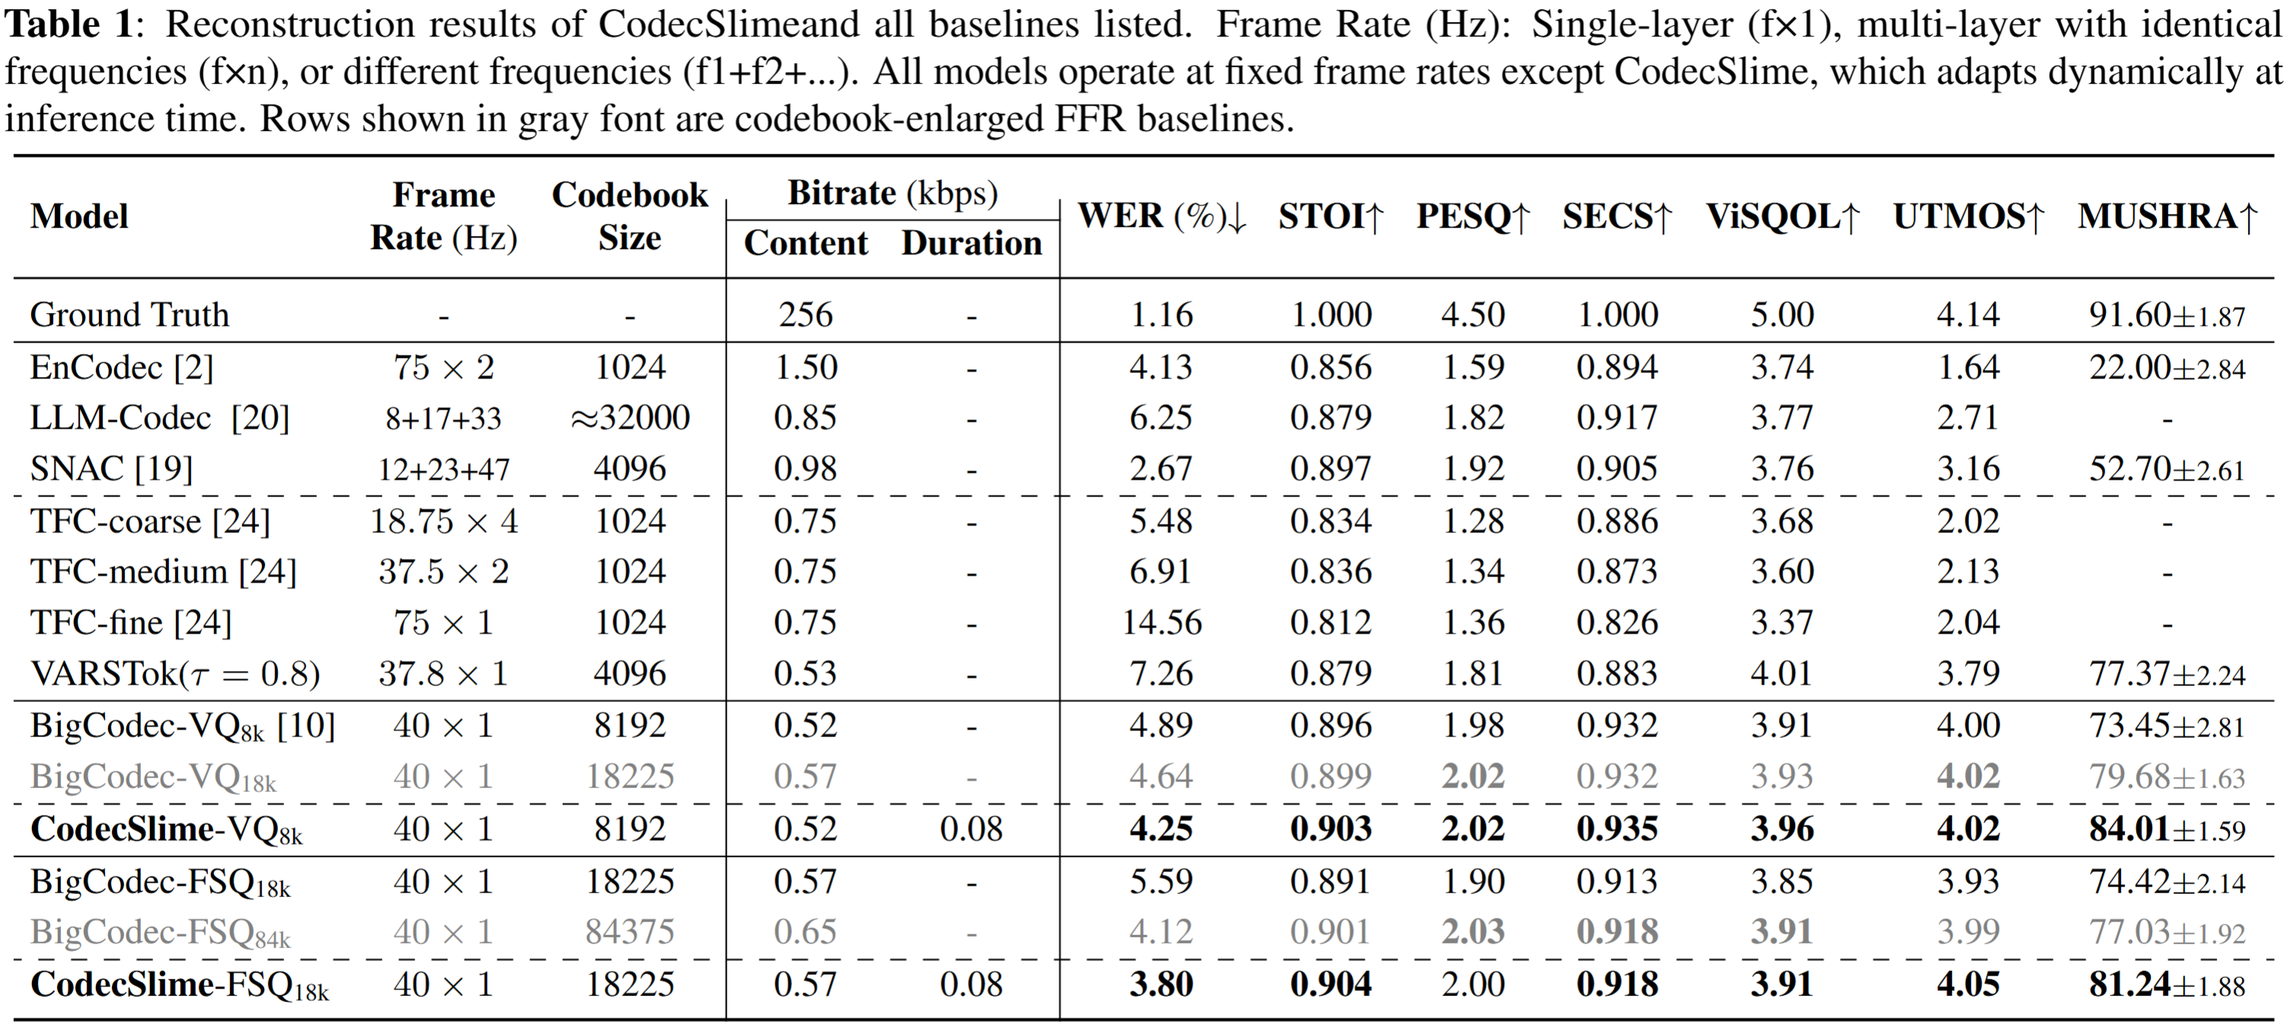
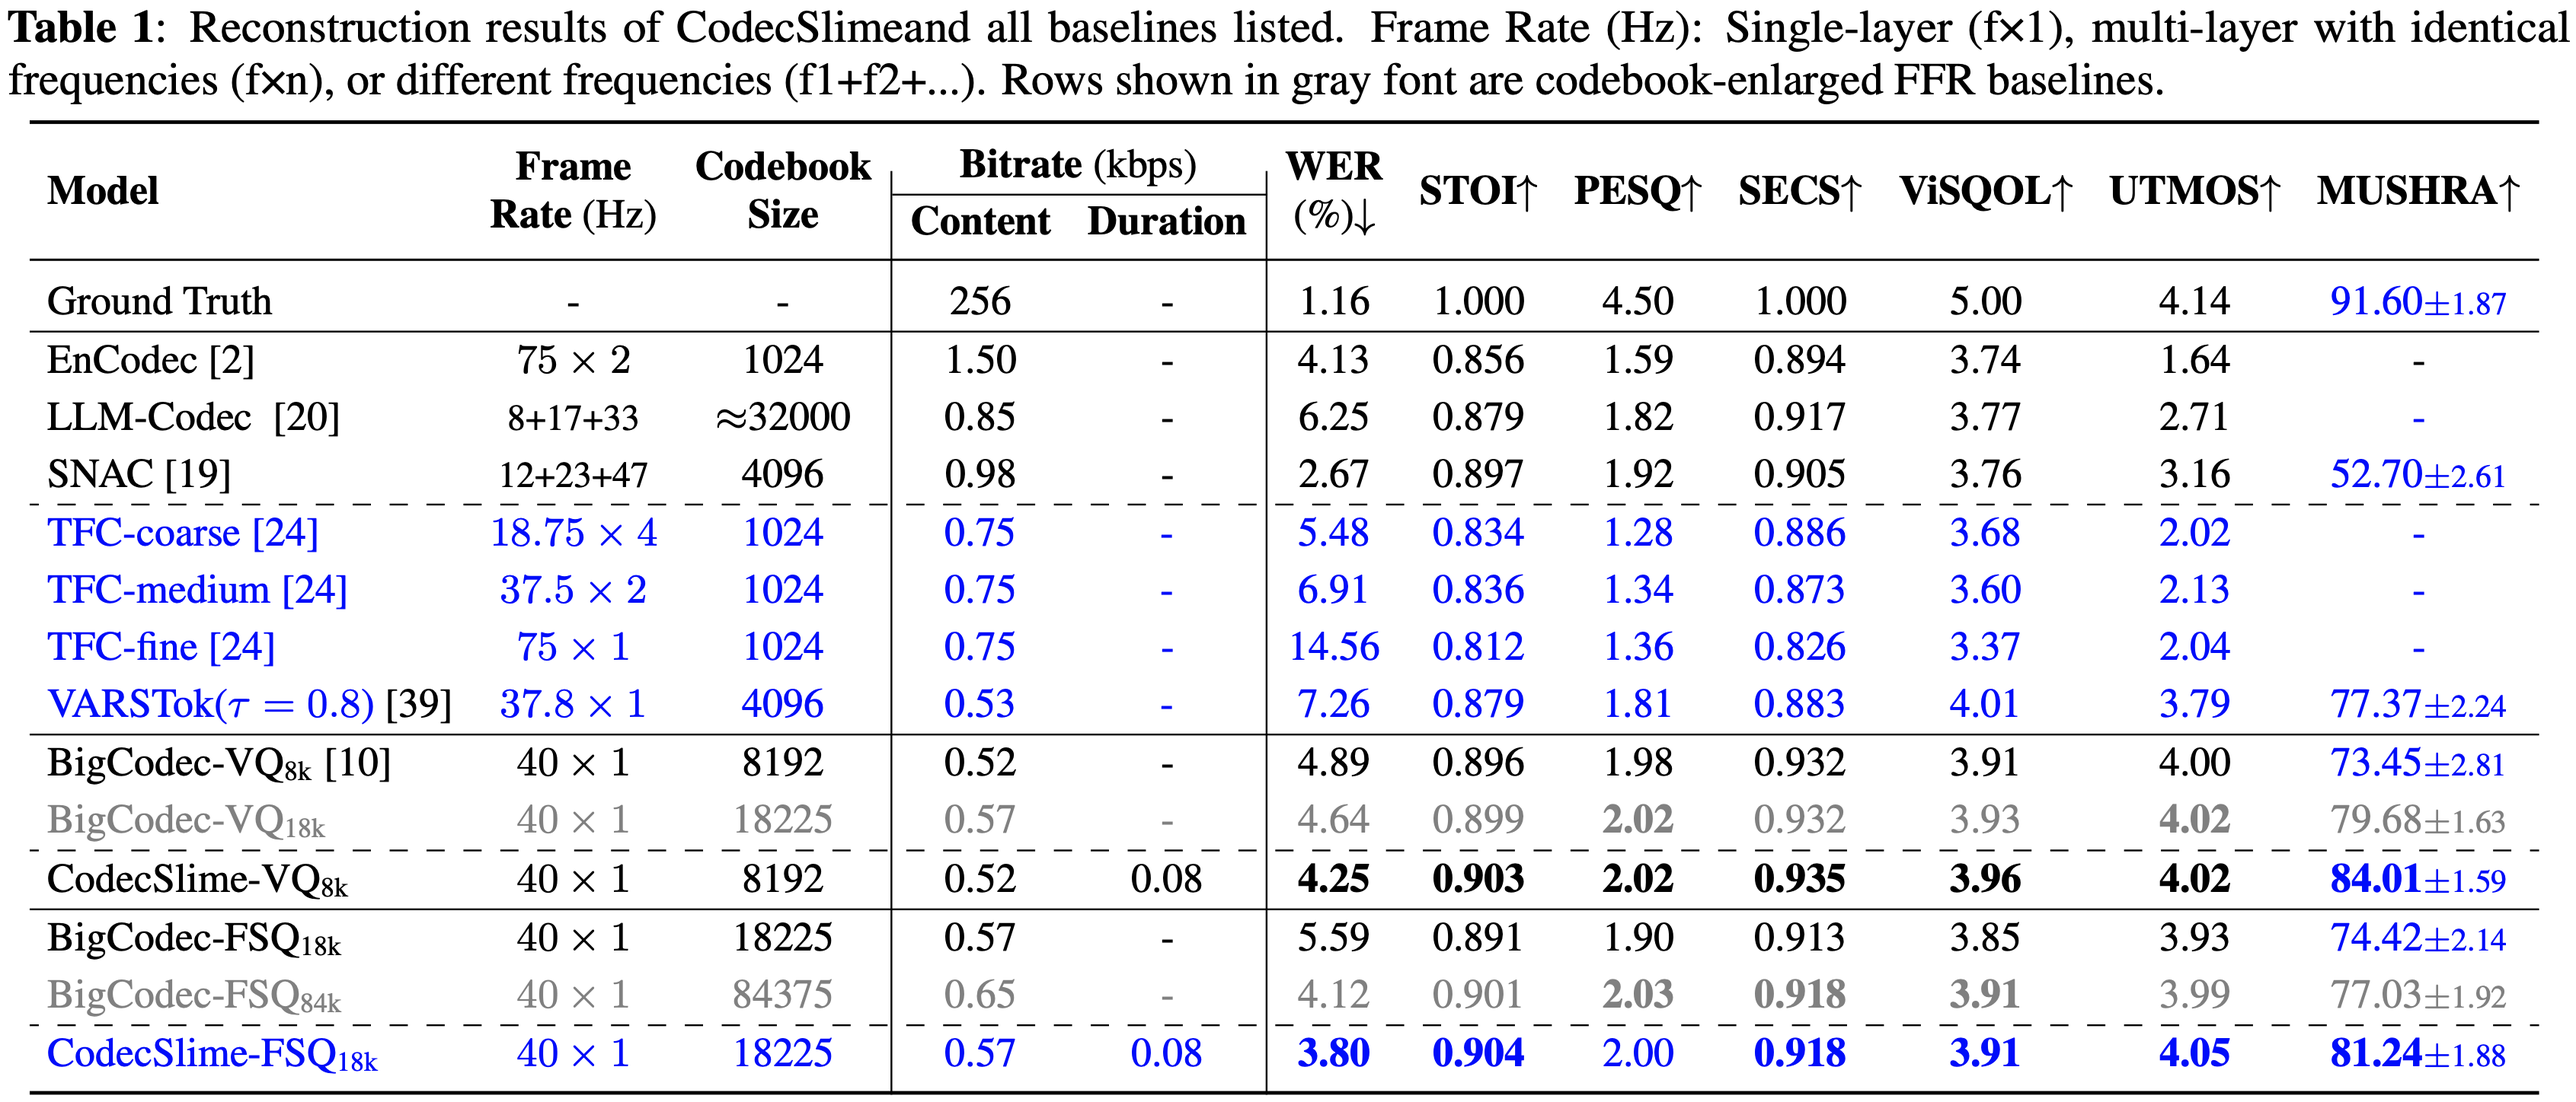
upd main table

Changed region(s): [[0.0, 0.0, 1.0, 0.9956], [0.4336, 0.4667, 0.4645, 0.4978], [0.2478, 0.28, 0.2787, 0.3111]]

diff --git a/rebuttal.html b/rebuttal.html
@@ -191,7 +191,7 @@
 			<center>
 				<figure>
 					<img src="figures/main_table.png" style="max-width: 100%;">
-					<figcaption><strong>Table 1 (Updated):</strong> Reconstruction results including TFC[24], VARSTok[39], and new MUSHRA scores.</figcaption>
+					<figcaption><strong>Table 1 (Updated):</strong> Reconstruction results including TFC[24], VARSTok[39], and new MUSHRA scores, <span style="color: #0330fc; font-weight: 700;">shown in blue</span>.</figcaption>
 				</figure>
 			</center>
 			<ul>
@@ -199,6 +199,10 @@
 				<li><strong>Comparison with VARSTok[39]:</strong> Both CodecSlime-VQ8k (84.01±1.59) and CodecSlime-FSQ18k (81.24±1.88) achieve higher MUSHRA scores than VARSTok (77.37±2.24).</li>
 				<li><strong>FSQ Comparison:</strong> The retrained CodecSlime-FSQ18k (81.24±1.88) shows clear gains over FFR (77.03±1.92).</li>
 			</ul>
+			
+			<p style="font-size: 12px; color: #666; margin-top: 25px; line-height: 1.5;">
+				<strong>New MUSHRA Test Details:</strong> Subjective MUSHRA test (ITU-R BS.1534) with 21 participants, where each subject evaluates 7 utterances (from the testset) across 9 systems: one ground truth reference, one anchor (SNAC), and 7 models (VARSTok, BigCodec-VQ8k, BigCodec-VQ18k, CodecSlime-VQ8k, BigCodec-FSQ18k, BigCodec-FSQ84k, CodecSlime-FSQ18k). The candidate number is limited to 9 to avoid excessive cognitive load and ensure reliable listener ratings within a practical evaluation time. Scores are collected on a 0–100 scale in blind listening.
+			</p>
 		</div>
 
 		<!-- 2. Melt-and-Cool Details -->
